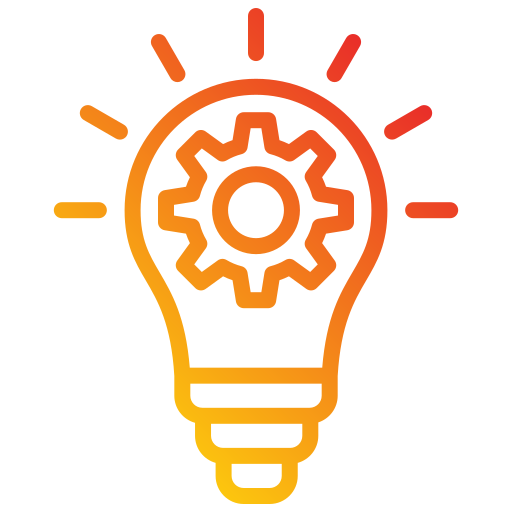
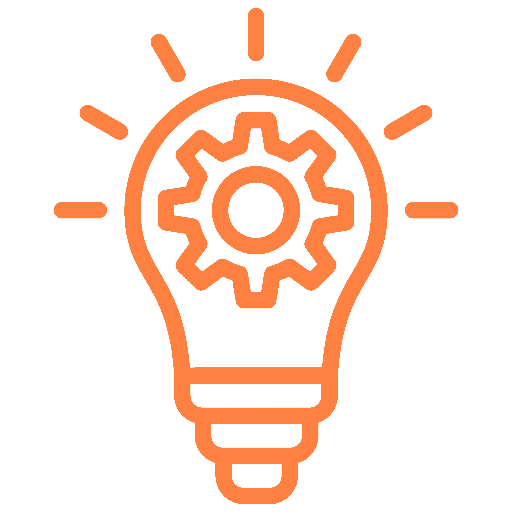
inserção de ícones de cor correta + criação de rotas personalizadas de acordo com cada tela + criação dos componentes de suas respectivas rotas + criação de HomePage no App.tsx personalizado.

diff --git a/src/Components/Body/Body.tsx b/src/Components/Body/Body.tsx
@@ -2,30 +2,33 @@ import './Styles.css'
 import { Link } from 'react-router-dom'
 import Logo from '../../assets/vetra-logo.png'
 
+<link href="https://fonts.googleapis.com/css2?family=Poppins:wght@300;400;500;600;700&display=swap" rel="stylesheet"></link>
+
 function Body() {
   return (
     <>
       <div className="container">   
         <div className='container-body'>
           <div className='container-1'> 
-            <div className='vetra-container-1'>
+            <div className='vetra-container-1' onClick={() => window.location.reload()}>
               <img src={Logo} alt="vetra logo" className='vetra-logo'/>
               <h2 className='vetra-title'>TRA</h2>
             </div>
           </div>
           <div className='container-2'>
-            <h5 className='our-story-title'>OUR STORY</h5>
-            <h5 className='our-solutions-title'>SOLUTIONS</h5>
-            <h5 className='our-clients-title'>CLIENTS</h5>
+            <Link to={'/about-us'}><h5 className='our-story-title'>ABOUT US</h5></Link>
+            <Link to={'/services'}><h5 className='our-solutions-title'>SERVICES</h5></Link>
+            <Link to={'/success-stories'}><h5 className='our-clients-title'>SUCESS STORIES</h5></Link>
+            <Link to={'/'}><h5 className='our-clients-title'>JOIN OUR TEAM</h5></Link>          
           </div>
           <div className='container-3'>
             <button className='button-quote'>GET A QUOTE</button>
-            <button className='button-talk'>TALK WITH US  →</button>
+            <Link to={'/contact-us'}><button className='button-talk'>CONTACT US</button></Link>  
             <button className='button-menu'>MENU ↡</button>
           </div>
         </div>  
         <div className='title-container-center'>
-          <h6 className='smart-title'>SMART SOLUTIONS FOR GROWING BUSINESSES.</h6>
+          <h6 className='smart-title'>Innovative Solutions for Thriving Businesses.</h6>
           <h4 className='grow-title'>Grow without losing the flavor<br></br>of your moment of pause.</h4>
           <button className='contact-us-button'>LET'S CONNECT →</button>
         </div>

diff --git a/src/Components/Body/Styles.css b/src/Components/Body/Styles.css
@@ -4,6 +4,12 @@ html, body {
     font-family: 'Poppins', sans-serif;
     background-color:grey  ;
 }
+Link{
+    text-decoration: none;
+}
+a{
+    text-decoration: none; 
+}
 /* Estilo global para o container principal */ 
 .container {
     display: flex;
@@ -53,7 +59,7 @@ html, body {
 .container-2{
     display: flex;
     justify-content: space-around;
-    flex-grow: 1;
+    flex-grow: 2;
 }
 .container-3{
     display: flex;
@@ -65,7 +71,7 @@ html, body {
     cursor: pointer;
     color: #ff8142;
     font-weight: 400;
-    letter-spacing: 0.5rem;
+    letter-spacing: 0.2rem;
     transition: transform 0.3s ease; 
 }
 .our-solutions-title{
@@ -73,7 +79,7 @@ html, body {
     cursor: pointer;
     color: #ff8142;
     font-weight: 400;
-    letter-spacing: 0.5rem;
+    letter-spacing: 0.2rem;
     transition: transform 0.3s ease; 
 }
 .our-clients-title{
@@ -81,7 +87,7 @@ html, body {
     cursor: pointer;
     color: #ff8142;
     font-weight: 400;
-    letter-spacing: 0.5rem;
+    letter-spacing: 0.2rem;
     transition: transform 0.3s ease; 
 }
 h5:hover{
@@ -125,7 +131,8 @@ h5:hover{
     flex-direction: column;
     color: #ff8142;
     font-weight: 400;
-    letter-spacing: 0.5rem;
+    letter-spacing: 0.2rem;
+    text-transform: uppercase;
 }
 .grow-title{
     color: #ff8142;
@@ -134,6 +141,7 @@ h5:hover{
     font-size: 60px;
     font-weight: bold;
     text-transform: uppercase;
+    margin: 0;
 }
 .contact-us-button{
     background-color: #ff8142;

diff --git a/src/Components/Footer/Footer.tsx b/src/Components/Footer/Footer.tsx
@@ -1,5 +1,8 @@
 import './Styles.css'
 import idea from '../../assets/idea.png'
+import rocket from '../../assets/rocket.png'
+import plan from '../../assets/plan.png'
+
 <link href="https://fonts.googleapis.com/css2?family=Poppins:wght@300;400;500;600;700&display=swap" rel="stylesheet"></link>
 
 function Footer() {
@@ -21,7 +24,7 @@ function Footer() {
       <div className='section-2'>
         <div className='content-2'>
           <div className='logo-content-2'>
-            <img src={idea} alt="idea" className='idea-logo' />
+            <img src={plan} alt="idea" className='idea-logo' />
           </div>
           <div className='container-content-2'>
               <h2 className='container-title-2'>BUILD STRATEGIES</h2>
@@ -33,7 +36,7 @@ function Footer() {
       <div className='section-3'>
         <div className='content-3'>
           <div className='logo-content-3'>
-            <img src={idea} alt="idea" className='idea-logo' />
+            <img src={rocket} alt="idea" className='idea-logo' />
           </div>
           <div className='container-content-3'>
             <h2 className='container-title-3'>DO THE V</h2>

diff --git a/src/App.tsx b/src/App.tsx
@@ -1,13 +1,33 @@
 import './App.css'
 import Body from './Components/Body/Body'
-import Footer from './Components/Footer/Footer'
-import Header from './Components/Header/Header'
+import { BrowserRouter as Router, Routes, Route } from 'react-router-dom';
+import AboutUs from './Components/Pages/AboutUs/AboutUs';
+import Services from './Components/Pages/Services/Services';
+import ContactUs from './Components/Pages/ContactUs/ContactUs';
+import SucessStories from './Components/Pages/SucessStories/SucessStories';
+import Footer from './Components/Footer/Footer';
 
-function App() {
+function Home() {
   return (
     <>
-      <Body></Body>
-      <Footer></Footer>
+      <Body />
+      <Footer />
+    </>
+  );
+}
+
+function App() {
+  return ( 
+    <>
+    <Router>
+      <Routes>
+        <Route path="/" element={<Home/>} />
+        <Route path="/about-us" element={<AboutUs />} />
+        <Route path="/services" element={<Services />} />
+        <Route path="/success-stories" element={<SucessStories />} />
+        <Route path="/contact-us" element={<ContactUs />} />
+      </Routes>
+    </Router>
     </>
   )
 }

diff --git a/src/Components/Footer/Styles.css b/src/Components/Footer/Styles.css
@@ -8,6 +8,7 @@ html, body {
     width: 100%;
     height: 100%;
     overflow-x: hidden; /* Evita rolagem horizontal indesejada */
+    font-family: 'Poppins', sans-serif;
 }
 .container-page {
     background-color: #E8E8E8; /* Fundo escuro semi-transparente */
@@ -62,6 +63,7 @@ html, body {
     height: auto;
     flex-shrink: 0;
     width: 50px;
+    fill: #ff8142;
 }
 .section-2{
     display: flex;

diff --git a/src/Components/Pages/ContactUs/ContactUs.tsx b/src/Components/Pages/ContactUs/ContactUs.tsx
@@ -1,0 +1,15 @@
+import './Styles.css'
+
+function ContactUs() {
+  return (
+    <>
+      <div className="container-contact-us">   
+        Contact Us
+      </div>
+    </>
+  );
+}
+
+export default ContactUs;
+
+

diff --git a/src/Components/Pages/AboutUs/AboutUs.tsx b/src/Components/Pages/AboutUs/AboutUs.tsx
@@ -1,0 +1,15 @@
+import './Styles.css'
+
+function AboutUs() {
+  return (
+    <>
+      <div className="container-about-us">   
+        About Us
+      </div>
+    </>
+  );
+}
+
+export default AboutUs;
+
+

diff --git a/src/Components/Pages/ContactUs/Styles.css b/src/Components/Pages/ContactUs/Styles.css
@@ -1,0 +1,3 @@
+.container-contact-us{
+    background-color: red;
+}

diff --git a/src/Components/Pages/AboutUs/Styles.css b/src/Components/Pages/AboutUs/Styles.css
@@ -1,0 +1,3 @@
+.container-about-us{
+    background-color: red;
+}
